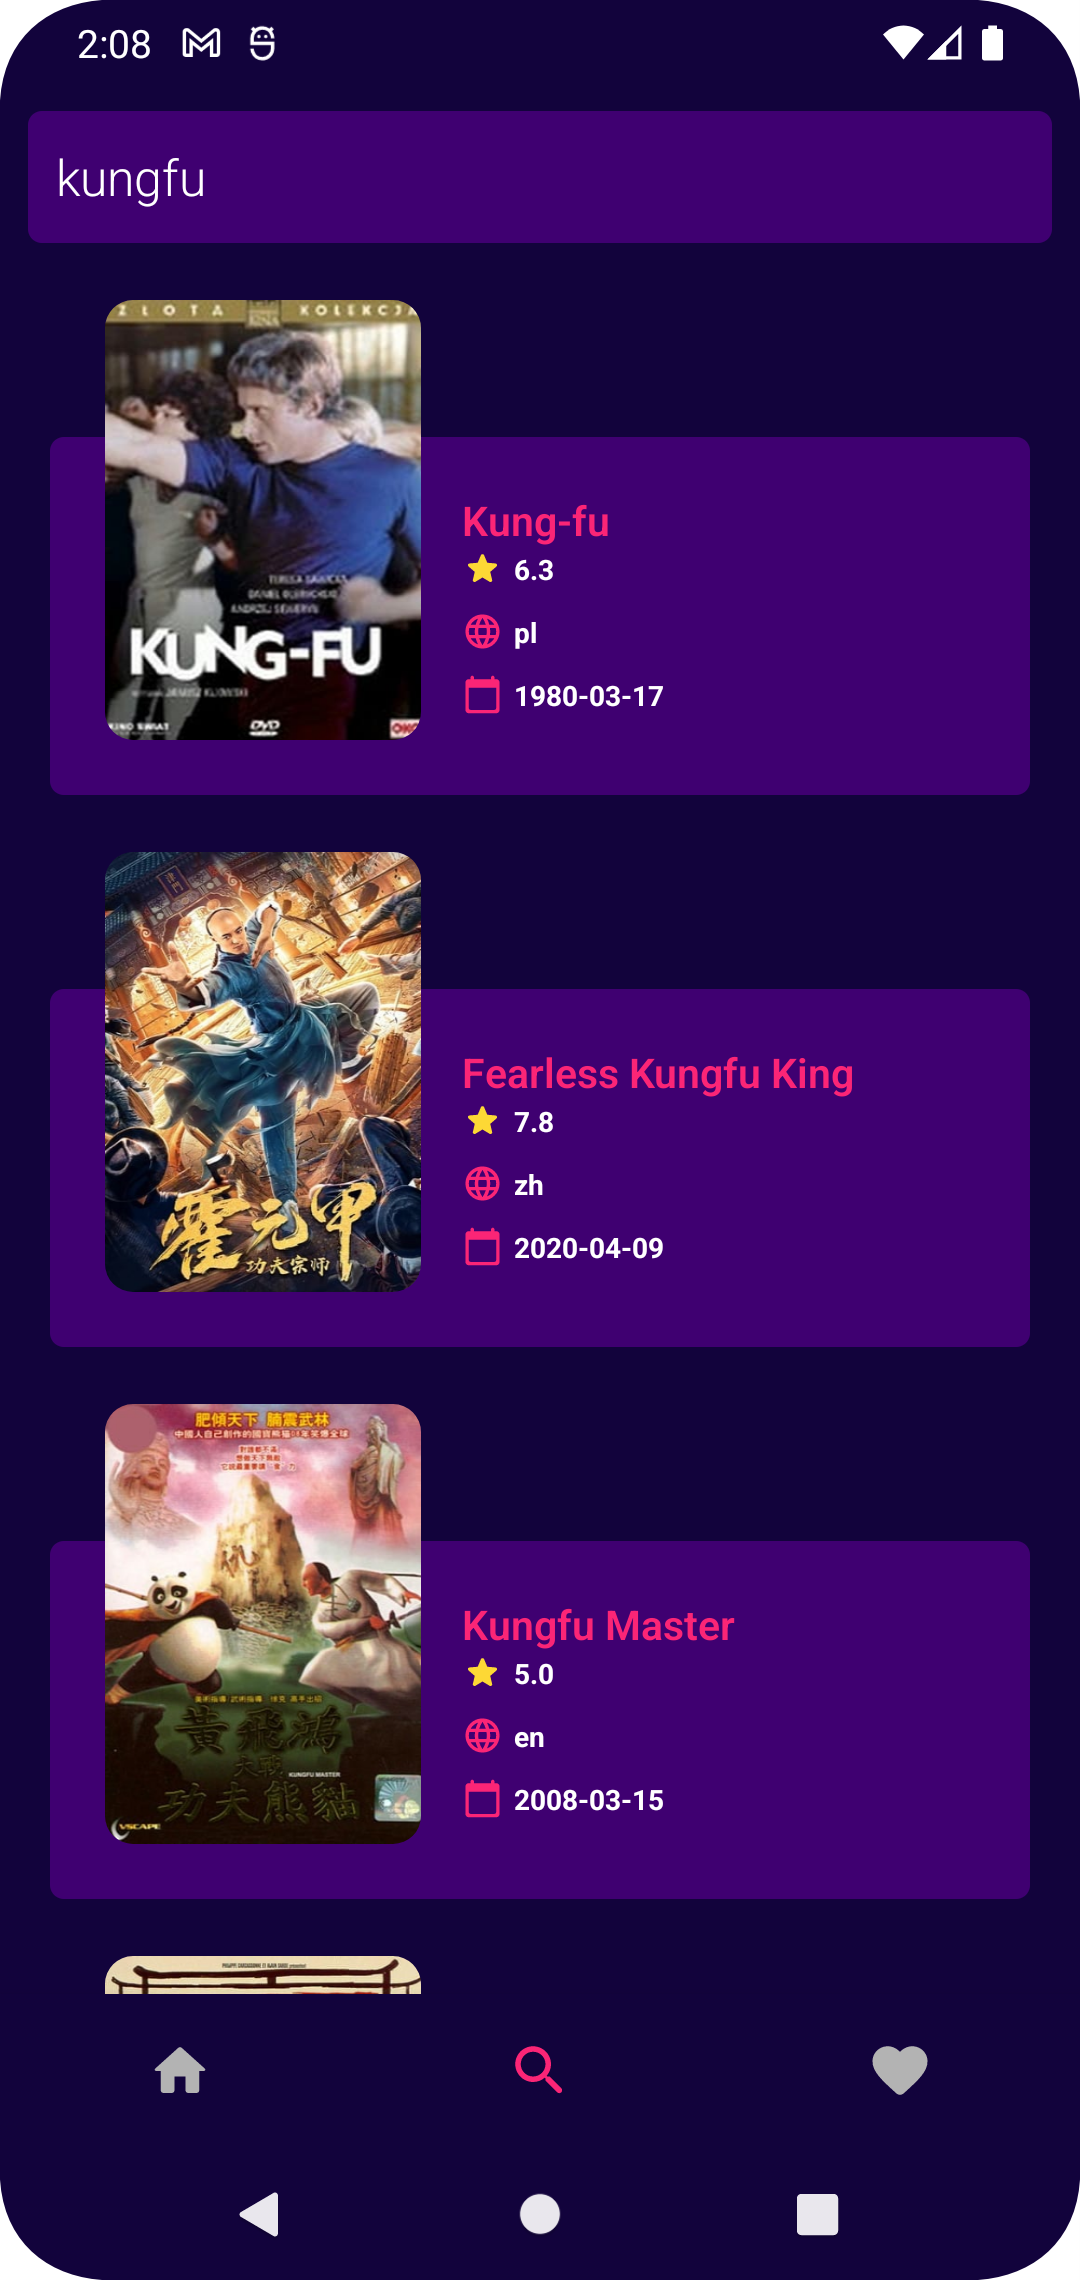
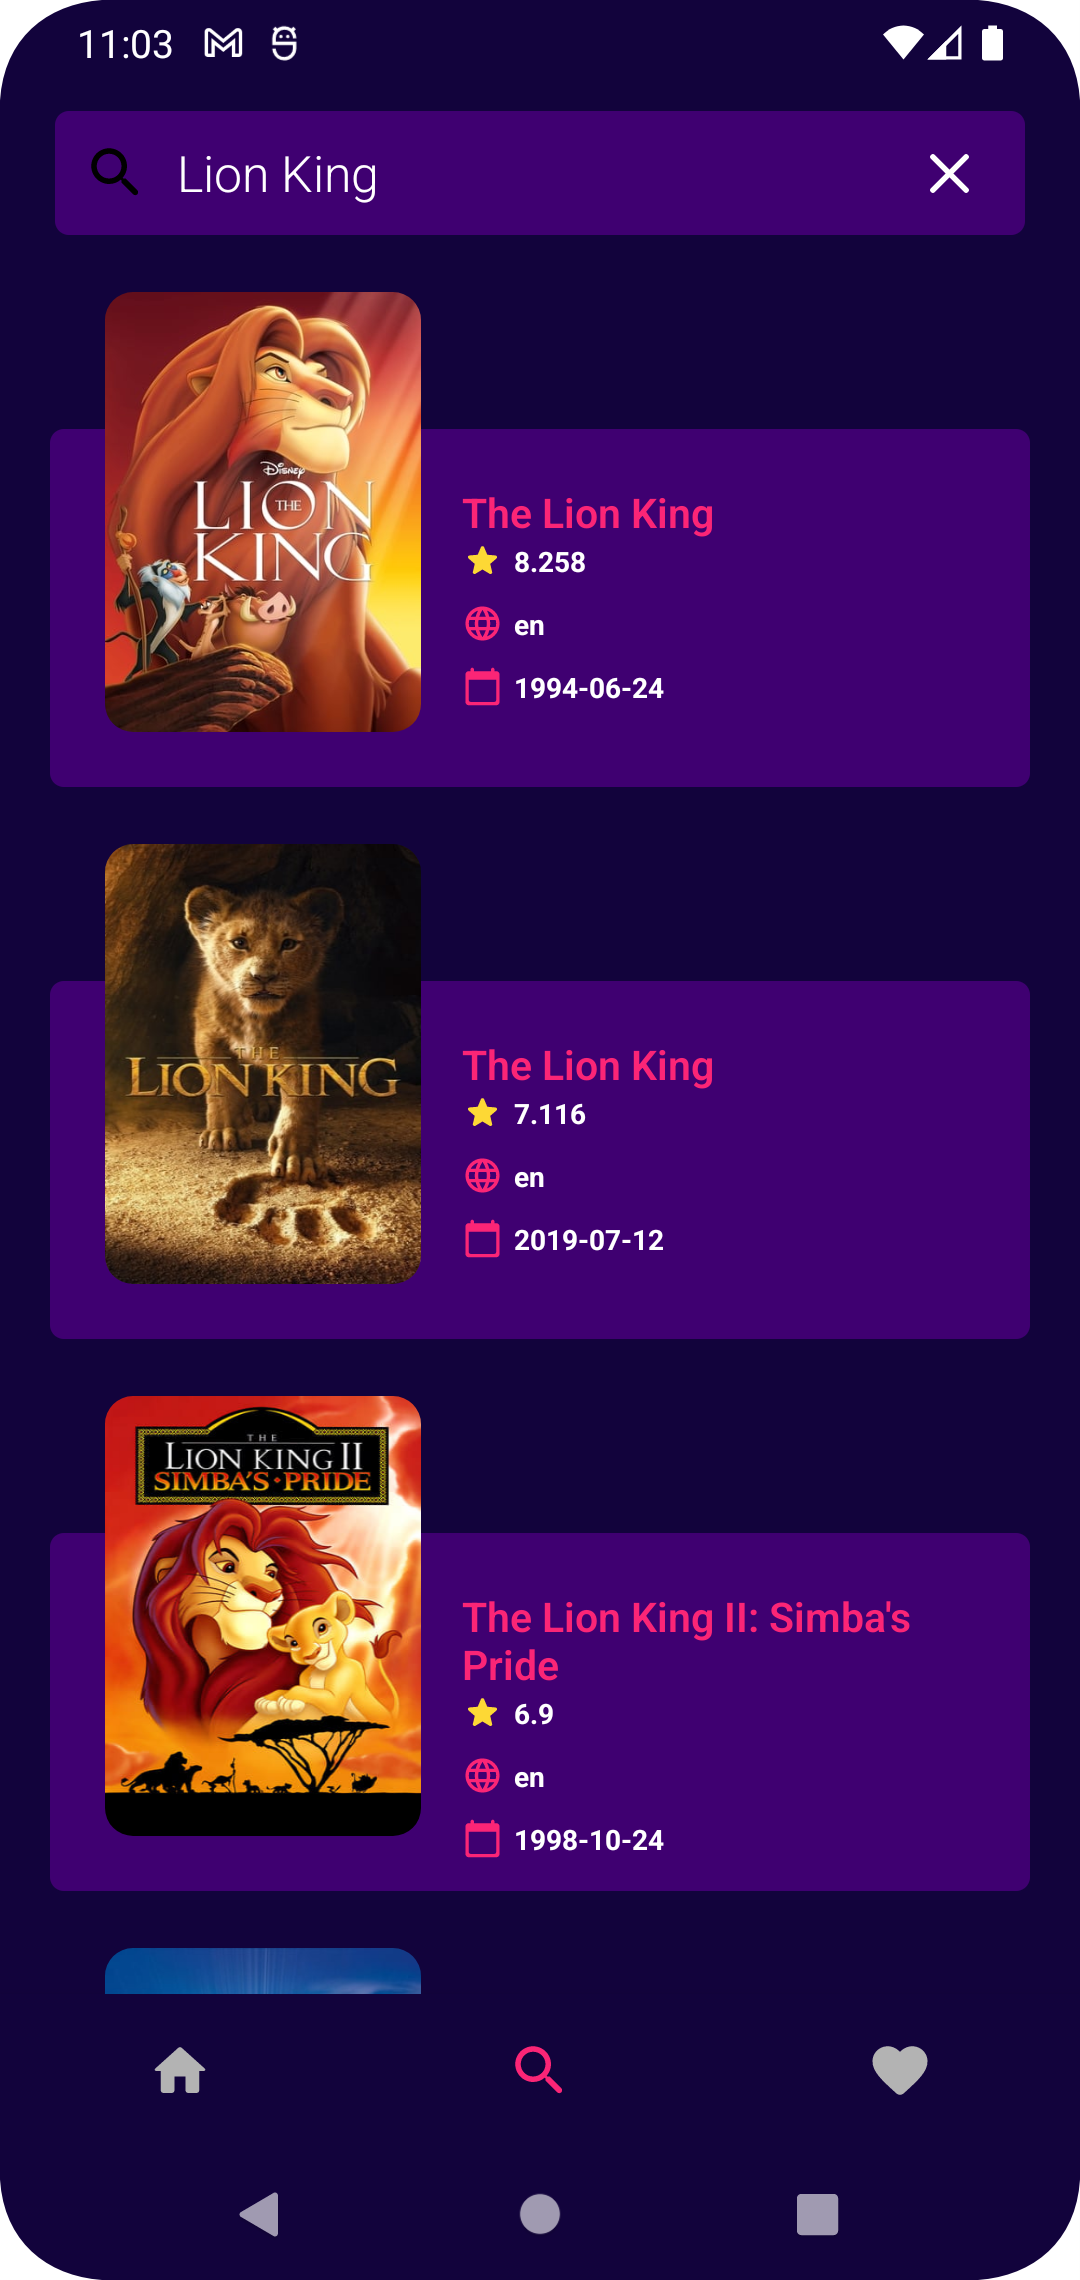
update

diff --git a/app/src/main/java/com/hoangtien2k3/themovie/ui/search/SearchFragment.kt b/app/src/main/java/com/hoangtien2k3/themovie/ui/search/SearchFragment.kt
@@ -1,11 +1,12 @@
 package com.hoangtien2k3.themovie.ui.search
 
 import android.os.Bundle
-import androidx.fragment.app.Fragment
+import android.util.Log
 import android.view.LayoutInflater
 import android.view.View
 import android.view.ViewGroup
 import androidx.core.widget.addTextChangedListener
+import androidx.fragment.app.Fragment
 import androidx.navigation.fragment.findNavController
 import androidx.recyclerview.widget.LinearLayoutManager
 import com.hoangtien2k3.themovie.adapter.CommonMoviesAdapter
@@ -28,30 +29,54 @@ class SearchFragment : Fragment(), SearchContracts.View {
     override fun onCreateView(
         inflater: LayoutInflater, container: ViewGroup?,
         savedInstanceState: Bundle?,
-    ): View? {
+    ): View {
         binding = FragmentSearchBinding.inflate(layoutInflater)
         return binding.root
     }
 
     override fun onViewCreated(view: View, savedInstanceState: Bundle?) {
         super.onViewCreated(view, savedInstanceState)
+        val searchViews = listOf(
+            binding.search1,
+            binding.search2,
+            binding.search3,
+            binding.search4,
+            binding.search5,
+            binding.search6
+        )
+        for (searchView in searchViews) {
+            searchView.setOnClickListener {
+                binding.apply {
+                    quickSearch.visibility = View.GONE
+                    val text: String = searchView.text.toString()
+                    if (text.isNotEmpty()) {
+                        searchEdt.setText(text)
+                    }
+                }
+            }
+        }
+
         binding.apply {
             searchEdt.addTextChangedListener {
                 val search = it.toString()
                 if (search.isNotEmpty()) {
-                    searchPresenter.callSearchMoviesList(1,search)
+                    quickSearch.visibility = View.GONE
+                    searchPresenter.callSearchMoviesList(1, search)
                 }
+            }
+            clearText.setOnClickListener {
+                searchEdt.setText("")
             }
         }
     }
 
     override fun loadSearchMoviesList(data: CommonMoviesListResponse) {
         binding.apply {
-
             commonMoviesAdapter.bind(data.results)
 
             moviesRecycler.apply {
-                layoutManager = LinearLayoutManager(requireContext(), LinearLayoutManager.VERTICAL, false)
+                layoutManager =
+                    LinearLayoutManager(requireContext(), LinearLayoutManager.VERTICAL, false)
                 adapter = commonMoviesAdapter
             }
 
@@ -59,7 +84,6 @@ class SearchFragment : Fragment(), SearchContracts.View {
                 val direction = SearchFragmentDirections.actionToDetailFragment(it.id)
                 findNavController().navigate(direction)
             }
-
         }
     }
 
@@ -78,7 +102,7 @@ class SearchFragment : Fragment(), SearchContracts.View {
     }
 
     override fun responseError(error: String) {
-        TODO("Not yet implemented")
+        // TODO
     }
 
 }

diff --git a/app/src/main/java/com/hoangtien2k3/themovie/ui/search/SearchPresenter.kt b/app/src/main/java/com/hoangtien2k3/themovie/ui/search/SearchPresenter.kt
@@ -11,7 +11,7 @@ class SearchPresenter
     private val repository: ApiRepository,
     val view: SearchContracts.View,
 ) : SearchContracts.Presenter, BasePresenterImpl() {
-    override fun callSearchMoviesList(page: Int,query: String) {
+    override fun callSearchMoviesList(page: Int, query: String) {
         disposable = repository
             .getSearchMoviesList(1, query)
             .applyIoScheduler()
@@ -22,12 +22,15 @@ class SearchPresenter
                             Log.e("DetailsPresenter", "itBody : $itBody")
                             view.loadSearchMoviesList(itBody)
                         }
+
                     in 300..399 -> {
                         Log.d("DetailsPresenter", " Redirection messages : ${response.code()}")
                     }
+
                     in 400..499 -> {
                         Log.d("DetailsPresenter", " Client error responses : ${response.code()}")
                     }
+
                     in 500..599 -> {
                         Log.d("DetailsPresenter", " Server error responses : ${response.code()}")
                     }

diff --git a/app/src/main/java/com/hoangtien2k3/themovie/api/ApiServices.kt b/app/src/main/java/com/hoangtien2k3/themovie/api/ApiServices.kt
@@ -9,14 +9,12 @@ import retrofit2.http.Query
 
 interface ApiServices {
 
-
     //    https://api.themoviedb.org/3/movie/upcoming?api_key=***&page=1
     //    https://api.themoviedb.org/3/movie/popular?api_key=***
     //    https://api.themoviedb.org/3/genre/movie/list?api_key=***
     //    https://api.themoviedb.org/3/search/movie?api_key=***&query=MovieName&page=1
     //    https://api.themoviedb.org/3/movie/{movie_id}?api_key=***
     //    https://api.themoviedb.org/3/movie/{movie_id}/credits?api_key=***
-
 
     @GET("movie/upcoming")
     fun getUpcomingMoviesList(@Query("page") page: Int): Single<Response<UpcomingMoviesListResponse>>

diff --git a/app/src/main/java/com/hoangtien2k3/themovie/ui/details/DetailsFragment.kt b/app/src/main/java/com/hoangtien2k3/themovie/ui/details/DetailsFragment.kt
@@ -57,12 +57,10 @@ class DetailsFragment : Fragment(), DetailsContracts.View {
                 detailsPresenter.callCreditsMovie(movieId)
             }
 
-
             backImg.setOnClickListener {
                 findNavController().navigateUp()
             }
         }
-
 
     }
 
